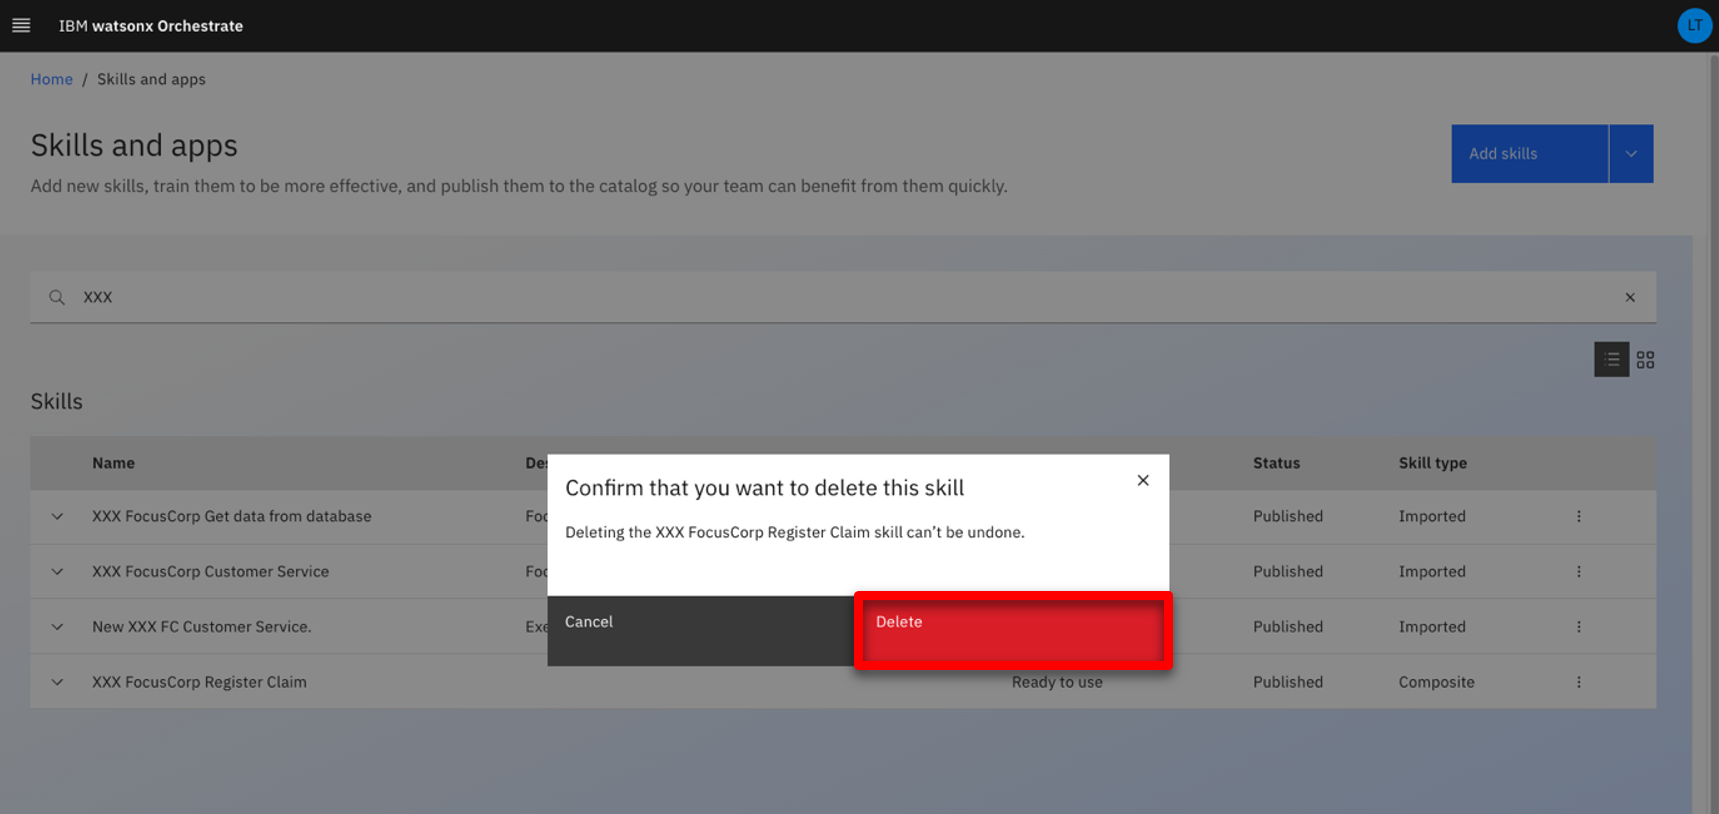
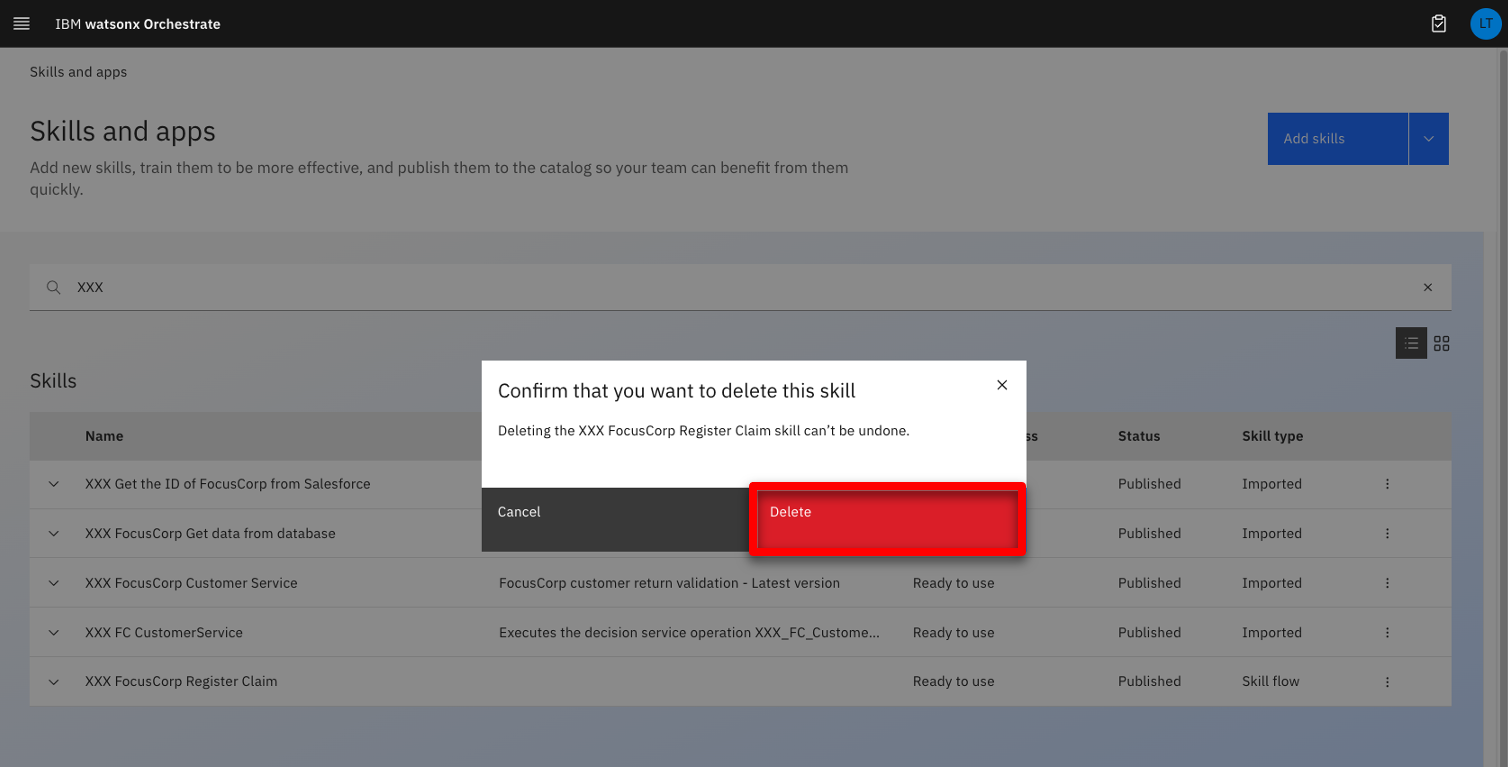
replacing composite with skill flow in prep

diff --git a/docs/300-digital-labor-leveraging-odm-decisions-in-watsonx-orchestrate/demo-preparation.md b/docs/300-digital-labor-leveraging-odm-decisions-in-watsonx-orchestrate/demo-preparation.md
@@ -483,7 +483,7 @@ You are now ready to demo!
 The provided skills (jason files) are configured to use the latest deployed ruleapp. You can use that following additional actions to illustrate this capability:
 1. Update a business rule in the Decision Center with any policy update of your choice. 
 2. Deploy a new version of the RuleApp in the Rule Execution Server using your exiting deployment configuration. 
-3. Re-run the exact same composite skill and show that the new rules have been applied.
+3. Re-run the exact same skill flow and show that the new rules have been applied.
 
 </details>
 <br/>
@@ -503,7 +503,7 @@ After each demo, you must remove the **New XXX FC FocusCorp Customer Service** s
 
 3. Enter your '**XXX**' initials to access your skills. <br/> <img src="images/Prep-6-1-3.png" width="800" /><br/>
 
-4. Look for the skill with the **Composite** skill type. Click its corresponding **ellipsis** icon (1). Click **Delete this skill** (2). <br/> <img src="images/Prep-6-1-4.png" width="800" /><br/>
+4. Look for the skill with the **Skill flow** skill type. Click its corresponding **ellipsis** icon (1). Click **Delete this skill** (2). <br/> <img src="images/Prep-6-1-4.png" width="800" /><br/>
 
 5. Click **Delete**. <br/> <img src="images/Prep-6-1-5.png" width="800" /><br/>
 
@@ -529,7 +529,7 @@ After each demo, you must remove the **New XXX FC FocusCorp Customer Service** s
 
 <summary>Remove the four skills created during the demo</summary>
 
-1. Repeat the **AFTER EACH DEMO** steps and remove the four '**XXX**' skills (XXX being your own initials). <br/> <inline-notification text="The composite skill must be removed first."></inline-notification> <img src="images/Prep-7-1-1.png" width="800" /><br/>
+1. Repeat the **AFTER EACH DEMO** steps and remove the four '**XXX**' skills (XXX being your own initials). <br/> <inline-notification text="The kill flow must be removed first."></inline-notification> <img src="images/Prep-7-1-1.png" width="800" /><br/>
 
 2. Enter your '**XXX**' initials and make sure no skills remain. <br/> <img src="images/Prep-7-1-2.png" width="800" /><br/>
 
